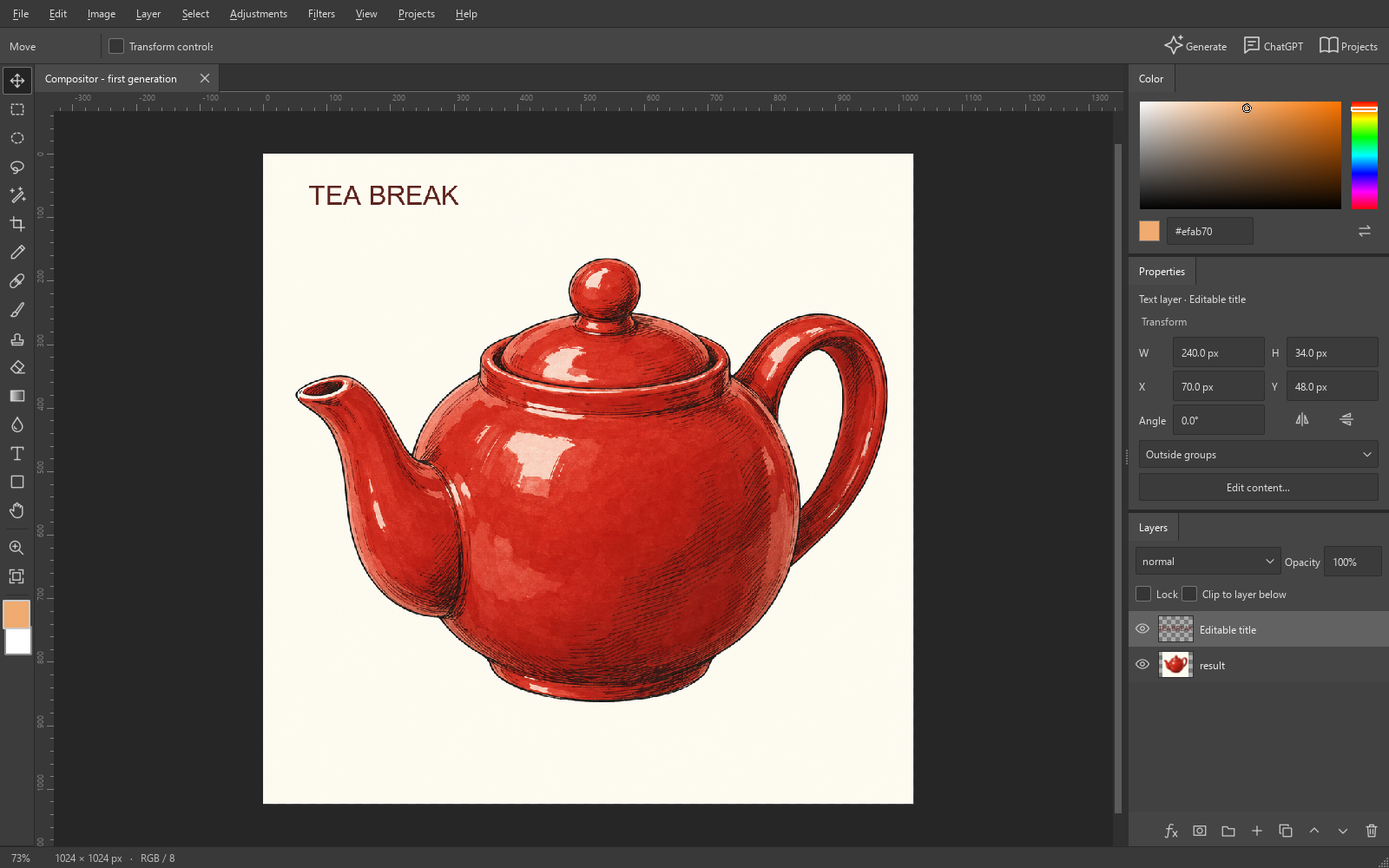
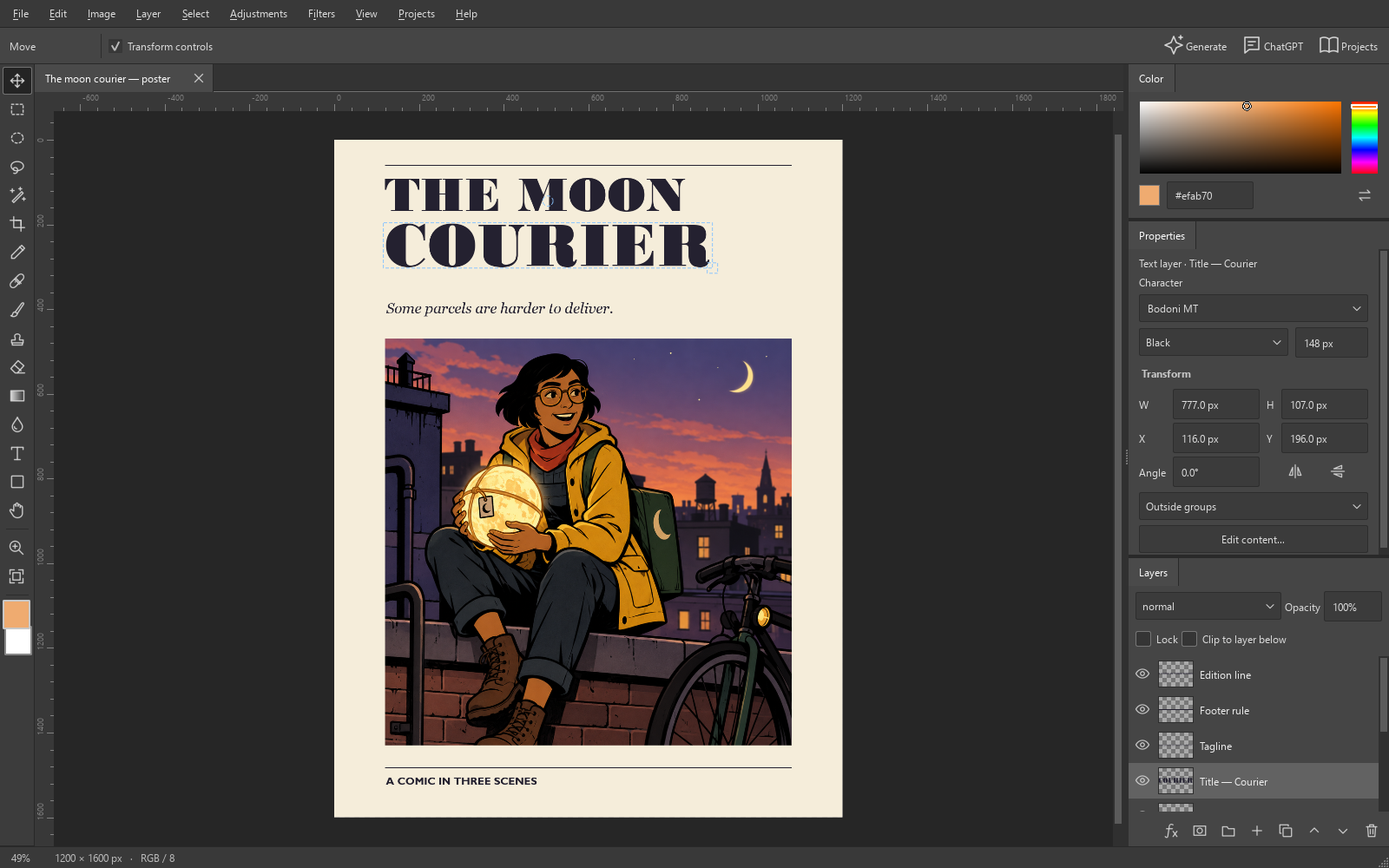
Expose type styling in Properties and open saved variants independently

diff --git a/windows/compositor/text_ui.py b/windows/compositor/text_ui.py
@@ -1,11 +1,110 @@
 """Typography editing with installed faces and the document's actual text renderer."""
-from PySide6.QtCore import Qt,QTimer
+from PySide6.QtCore import Qt,QTimer,QEvent
 from PySide6.QtGui import QColor,QPainter,QPixmap,QImage
 from PySide6.QtWidgets import (QDialog,QWidget,QVBoxLayout,QHBoxLayout,QGridLayout,QLabel,QPlainTextEdit,QSpinBox,
     QPushButton,QDialogButtonBox,QColorDialog)
 from .chrome import EditorComboBox as QComboBox
 from . import fonts,pixels
 from .document import Layer
+
+
+class TextProperties(QWidget):
+    """Immediate type controls; unfinished input stays with its original layer."""
+    def __init__(self,editor):
+        super().__init__(); self.editor=editor; self.ws=editor.ws; self.target=None; self.syncing=False; self.dirty=set(); self.baselines={}; self.displayed={}
+        layout=QVBoxLayout(self); layout.setContentsMargins(0,0,0,0); layout.setSpacing(6)
+        self.heading=QLabel('Character'); layout.addWidget(self.heading)
+        self.family=QComboBox(); self.family.setEditable(True); self.family.addItems(fonts.families()); self.family.setInsertPolicy(QComboBox.InsertPolicy.NoInsert)
+        self.family.setAccessibleName('Font family'); self.family.setToolTip('Font family'); self.family.completer().setCaseSensitivity(Qt.CaseSensitivity.CaseInsensitive); layout.addWidget(self.family)
+        row=QHBoxLayout(); row.setSpacing(8)
+        self.face=QComboBox(); self.face.setAccessibleName('Font style'); self.face.setToolTip('Font style'); row.addWidget(self.face,1)
+        self.size=QSpinBox(); self.size.setRange(1,2048); self.size.setSuffix(' px'); self.size.setKeyboardTracking(False); self.size.setButtonSymbols(QSpinBox.ButtonSymbols.NoButtons); self.size.setFixedWidth(84)
+        self.size.setAccessibleName('Font size'); self.size.setToolTip('Font size'); row.addWidget(self.size); layout.addLayout(row)
+        self.message=QLabel(); self.message.setWordWrap(True); self.message.hide(); layout.addWidget(self.message)
+        self.family.lineEdit().textEdited.connect(lambda:self.begin('family'))
+        self.family.lineEdit().editingFinished.connect(lambda:self.apply('family'))
+        self.family.activated.connect(lambda:self.choose('family'))
+        self.face.activated.connect(lambda:self.choose('face'))
+        self.size.lineEdit().textEdited.connect(lambda:self.begin('size'))
+        self.size.valueChanged.connect(lambda:self.begin('size'))
+        self.size.editingFinished.connect(lambda:self.apply('size'))
+        for widget in (self.family,self.family.lineEdit(),self.face,self.size,self.size.lineEdit()): widget.installEventFilter(self)
+
+    def eventFilter(self,watched,event):
+        if event.type()==QEvent.Type.KeyPress and event.key()==Qt.Key.Key_Escape and self.dirty:
+            self.dirty.clear(); self.baselines.clear(); self.message.hide(); self.refresh(); return True
+        return super().eventFilter(watched,event)
+
+    def field_value(self,params,field):
+        if field=='size': return params.get('size',48)
+        return tuple(params.get(key) for key in ('fontFamily','fontStyle','font','fontIndex'))
+
+    def begin(self,field):
+        if self.syncing or not self.target: return
+        if field not in self.dirty: self.baselines[field]=self.field_value(self.displayed,field)
+        self.dirty.add(field)
+
+    def choose(self,field):
+        self.begin(field); self.apply(field)
+
+    def feedback(self,text):
+        self.message.setText(text); self.message.show()
+
+    def refresh(self):
+        selected=None
+        if self.ws.active:
+            document=self.ws.document()
+            if document.active and document.layer().kind=='text': selected=(document.id,document.active)
+        if not self.dirty: self.target=selected
+        self.setVisible(self.target is not None)
+        if not self.target: return
+        try: layer=self.ws.document(self.target[0]).layer(self.target[1])
+        except ValueError:
+            self.feedback('This text layer is no longer open. Esc discards the unfinished change.'); return
+        if layer.kind!='text':
+            self.feedback('This layer no longer contains editable text. Esc discards the unfinished change.'); return
+        self.syncing=True
+        try:
+            params=layer.params; face=fonts.identify(params)
+            self.heading.setText('Character' if self.target==selected else 'Character · '+layer.name)
+            if 'family' not in self.dirty:
+                name=params.get('fontFamily') or (face['family'] if face else 'Arial')
+                if self.family.currentText()!=name: self.family.setCurrentText(name)
+                if 'face' not in self.dirty:
+                    choices=fonts.styles(name); current=params.get('fontStyle') or (face['style'] if face else 'Regular')
+                    if [self.face.itemText(i) for i in range(self.face.count())]!=choices: self.face.clear(); self.face.addItems(choices)
+                    if self.face.currentText()!=current: self.face.setCurrentText(current)
+            if 'size' not in self.dirty and self.size.value()!=round(params.get('size',48)): self.size.setValue(round(params.get('size',48)))
+            self.displayed=dict(params)
+            for field in (self.family,self.face,self.size): field.setEnabled(not layer.locked)
+            if not self.dirty: self.message.hide()
+            elif self.target!=selected: self.feedback('Finish editing '+layer.name+'. Enter applies; Esc cancels.')
+        finally: self.syncing=False
+
+    def apply(self,field):
+        if self.syncing or field not in self.dirty or not self.target: return
+        try:
+            document=self.ws.document(self.target[0]); layer=document.layer(self.target[1]); params=dict(layer.params)
+            if layer.kind!='text': raise ValueError('This layer no longer contains editable text. Esc discards the unfinished change.')
+            if layer.locked: raise ValueError('Unlock this text layer to change its type.')
+            current=self.field_value(params,field)
+            if current!=self.baselines[field]:
+                self.baselines[field]=current
+                raise ValueError('This setting changed elsewhere. Press Enter again to apply your choice, or Esc to cancel.')
+            if field=='size': params['size']=self.size.value()
+            else:
+                family=self.family.currentText().strip() if field=='family' else params.get('fontFamily',self.family.currentText())
+                style=params.get('fontStyle','Regular') if field=='family' else self.face.currentText()
+                face=fonts.resolve(family,style)
+                if face is None: raise ValueError('Choose an installed font from the list.')
+                params.update(fontFamily=face['family'],fontStyle=face['style'],font=face['path'],fontIndex=face['index'])
+            self.dirty.remove(field)
+            try:
+                if params!=layer.params: self.ws.dispatch('edit',{'documentId':document.id,'expectedRevision':document.revision,'operation':'update_layer','args':{'layerId':layer.id,'params':params}})
+            except Exception:
+                self.dirty.add(field); raise
+            self.refresh()
+        except Exception as error: self.feedback(str(error))
 
 
 class TextPreview(QWidget):

diff --git a/windows/compositor/ui.py b/windows/compositor/ui.py
@@ -439,6 +439,8 @@ class Editor(QMainWindow):
         self.color_panel=ColorPanel(self); section('Color',self.color_panel).setMinimumHeight(150); self.color_panel.sync()
         properties=QWidget(); prop=QVBoxLayout(properties); prop.setContentsMargins(12,8,12,8); prop.setSpacing(6)
         self.layer_caption=QLabel('No layer selected'); self.layer_caption.setWordWrap(True); prop.addWidget(self.layer_caption)
+        from .text_ui import TextProperties
+        self.text_properties=TextProperties(self); prop.addWidget(self.text_properties)
         label=QLabel('Transform'); label.setObjectName('sectionLabel'); prop.addWidget(label)
         fields=QGridLayout(); fields.setHorizontalSpacing(8); fields.setVerticalSpacing(4); self.transform_fields={}
         for key,label,r,c in [('sx','W',0,0),('sy','H',0,2),('x','X',1,0),('y','Y',1,2),('angle','Angle',2,0)]:
@@ -446,7 +448,9 @@ class Editor(QMainWindow):
             fields.addWidget(QLabel(label),r,c); fields.addWidget(spin,r,c+1)
         flips=QHBoxLayout(); flips.setSpacing(0); flips.addWidget(icon_button('flip_h','Flip horizontally',lambda:self.flip('sx'))); flips.addWidget(icon_button('flip_v','Flip vertically',lambda:self.flip('sy'))); fields.addLayout(flips,2,2,1,2); prop.addLayout(fields)
         self.parent_group=QComboBox(); self.parent_group.setAccessibleName('Parent group'); self.parent_group.currentIndexChanged.connect(self.change_group); prop.addWidget(self.parent_group)
-        edit_content=QPushButton('Edit content…'); edit_content.clicked.connect(self.edit_layer_content); prop.addWidget(edit_content); prop.addStretch(); section('Properties',properties).setMinimumHeight(280)
+        edit_content=QPushButton('Edit content…'); edit_content.clicked.connect(self.edit_layer_content); prop.addWidget(edit_content); prop.addStretch()
+        properties_scroll=QScrollArea(); properties_scroll.setWidgetResizable(True); properties_scroll.setFrameShape(QScrollArea.Shape.NoFrame); properties_scroll.setWidget(properties)
+        section('Properties',properties_scroll).setMinimumHeight(260)
         panel=QWidget(); layout=QVBoxLayout(panel); layout.setContentsMargins(0,6,0,0); layout.setSpacing(4)
         row=QHBoxLayout(); row.setContentsMargins(8,0,8,0); self.blend=QComboBox(); self.blend.addItems(pixels.BLENDS); self.blend.setAccessibleName('Layer blend mode'); self.blend.currentTextChanged.connect(lambda v:self.property_changed('blend',v)); row.addWidget(self.blend,1)
         row.addWidget(QLabel('Opacity')); self.opacity=QSpinBox(); self.opacity.setRange(0,100); self.opacity.setSuffix('%'); self.opacity.setFixedWidth(67); self.opacity.setAccessibleName('Layer opacity'); self.opacity.valueChanged.connect(lambda v:self.property_changed('opacity',v/100)); row.addWidget(self.opacity); layout.addLayout(row)
@@ -456,7 +460,7 @@ class Editor(QMainWindow):
         buttons=QHBoxLayout(); buttons.setContentsMargins(4,2,4,2); buttons.setSpacing(1); buttons.addStretch()
         for name,label,fn in [('effects','Layer effects',self.effects_dialog),('mask','Add layer mask',lambda:self.edit('mask',{'mode':'white'})),('group','New group',lambda:self.edit('add_layer',{'kind':'group','name':'Group'})),('plus','New layer',lambda:self.edit('add_layer')),('copy','Duplicate layer',lambda:self.edit('duplicate_layer')),('up','Raise layer',lambda:self.reorder(1)),('down','Lower layer',lambda:self.reorder(-1)),('delete','Delete layer',lambda:self.edit('delete_layer'))]: buttons.addWidget(icon_button(name,label,fn))
         layout.addLayout(buttons); section('Layers',panel).setMinimumHeight(200)
-        stack.setSizes([210,280,370]); self.inspector_stack=stack
+        stack.setSizes([170,370,320]); self.inspector_stack=stack
         self.layer_dock=QDockWidget('Inspector',self); self.layer_dock.setWidget(inspector); self.layer_dock.setMinimumWidth(300); self.layer_dock.setMaximumWidth(340); self.layer_dock.setFeatures(QDockWidget.DockWidgetFeature.NoDockWidgetFeatures); self.layer_dock.setTitleBarWidget(QWidget()); self.addDockWidget(Qt.DockWidgetArea.RightDockWidgetArea,self.layer_dock)
 
     def build_generation(self):
@@ -554,6 +558,7 @@ class Editor(QMainWindow):
                     for group in d.layers:
                         if group.kind=='group' and group.id!=l.id: self.parent_group.addItem(group.name,group.id)
                     self.parent_group.setCurrentIndex(max(0,self.parent_group.findData(l.parent)))
+            self.text_properties.refresh()
             selected=self.jobs.currentItem().data(Qt.ItemDataRole.UserRole) if self.jobs.currentItem() else None; self.jobs.clear()
             for job in sorted(self.ws.generation.jobs.values(),key=lambda j:j['created'],reverse=True):
                 if job.get('documentId')!=self.ws.active: continue

diff --git a/windows/compositor/workspace.py b/windows/compositor/workspace.py
@@ -1,6 +1,6 @@
 """The single owner of open documents for the native UI and external operators."""
 from pathlib import Path
-import base64, io, json, time
+import base64, io, json, os, time, uuid
 from PySide6.QtCore import QObject, Signal, QTimer
 from PIL import Image
 from .document import Document
@@ -81,8 +81,16 @@ class Workspace(QObject):
             if Path(a['path']).suffix.lower()=='.compbook':
                 result=self.projects.open_bundle(a['path'],a.get('asCopy',False)); self.notify(); return result
             d=Document.load(a['path'])
-            if d.id in self.documents: self.active=d.id
-            else: self.documents[d.id]=d; self.active=d.id
+            same_file=next((existing for existing in self.documents.values() if existing.path and os.path.normcase(str(Path(existing.path).resolve()))==os.path.normcase(str(Path(a['path']).resolve()))),None)
+            if same_file and not a.get('asCopy'):
+                d=same_file
+            else:
+                # Save-as variants may carry the same embedded identity. Their
+                # files are independent work and must not select a different tab.
+                if d.id in self.documents or a.get('asCopy'): d.id=str(uuid.uuid4())
+                if a.get('asCopy'): d.path=None; d.saved_revision=-1
+                self.documents[d.id]=d
+            self.active=d.id
             self.notify(); return {**d.info(),'conversionReport':getattr(d,'conversion_report',[])}
         if action=='activate':
             self.active=self.document(a['documentId']).id
@@ -137,7 +145,6 @@ class Workspace(QObject):
             bg=Image.new('RGBA',im.size,'white'); im=Image.alpha_composite(bg,im).convert('RGB'); data=io.BytesIO(); im.save(data,'JPEG',quality=90,subsampling=0)
             return {'documentId':d.id,'revision':d.revision,'width':im.width,'height':im.height,'mimeType':'image/jpeg','data':base64.b64encode(data.getvalue()).decode()}
         if action=='prepare_generation':
-            import uuid
             folder=self.settings.root/'prepared'/str(uuid.uuid4()); folder.mkdir(parents=True)
             im=d.render(); box=a.get('box'); kind=a.get('kind','edit')
             if kind=='patch':

diff --git a/windows/compositor/mcp_server.py b/windows/compositor/mcp_server.py
@@ -31,7 +31,7 @@ def compositor_new_document(width:int=1536,height:int=1024,title:str='Untitled',
 
 @server.tool()
 def compositor_open_document(path:str,asCopy:bool=False) -> dict:
-    """Open a .compwin, .compbook, OpenRaster, PSD, upstream Compositor package or ordinary image. An unchanged .compbook returns to its existing project; asCopy explicitly imports an independent project. Returns conversion notes when present."""
+    """Open a .compwin, .compbook, OpenRaster, PSD, upstream Compositor package or ordinary image. An already-open document file or unchanged .compbook returns to its existing owner. asCopy explicitly opens an independent unsaved copy. Different files remain independent even when their embedded document IDs match. Returns conversion notes when present."""
     return call('open',locals())
 
 @server.tool()

diff --git a/module-manifest.md b/module-manifest.md
@@ -10,7 +10,7 @@ The public app runs independently of the Axiomatic workspace. General editing, g
 | Rendering | `windows/compositor/pixels.py` | sRGB RGBA compositing, 20 blend modes, shapes/text/gradients, layer effects, filters and adjustments. Mirrors upstream transform and blend intent with Windows libraries. |
 | Shared workspace | `windows/compositor/workspace.py` | Qt owner thread; both native UI and HTTP/MCP enter the same dispatch. Open documents, revisions, recovery, generation application, inspection and optional connector. |
 | Native editor | `windows/compositor/ui.py`, `windows/compositor/chrome.py` | Qt canvas with pixel rulers, original vector tool icons, direct color selection, stacked Color/Properties/Layers inspector and optional generation, ChatGPT and project panels. Window geometry and named dock/toolbar state persist in per-user `window.json`. Human edits use the canonical workspace commands. |
-| Typography | `windows/compositor/fonts.py`, `windows/compositor/text_ui.py` | Installed Windows font families and faces, searchable selection, actual rendered text preview and editable family-based text. Modal drafts stay pinned to their document and layer; concurrent edits retain the draft for an explicit retry. MCP discovers the same fonts. |
+| Typography | `windows/compositor/fonts.py`, `windows/compositor/text_ui.py` | Installed Windows font families and faces, immediate family/style/size controls in Properties, searchable selection and an expanded text dialog with actual rendered preview. Unfinished property input stays pinned to its original document/layer; field conflicts preserve the draft for explicit retry, while unrelated edits are merged. MCP discovers the same fonts. |
 | Gesture previews | `windows/compositor/gesture.py` | Immutable brush/eraser snapshots rendered through the same pixel operations as committed edits. Pointwise documents render bounded patches; effects and adjustments use the full renderer. Preview pixels replace a temporary canvas bitmap, preserving transparency and fractional-zoom edges. Escape cancels; release commits one undo step; external document changes cancel the pending gesture. |
 | Public production projects | `windows/compositor/projects.py`, `windows/compositor/production_ui.py` | Standalone artwork/comic/book projects, lazily loaded canonical page documents, authored prose, project direction, labeled references, portable `.compbook` files, HTML/PDF reading exports and shared human/MCP presentation. Page drafts persist separately until saved. |
 | Reading exports | `windows/compositor/reading.py` | Self-contained responsive HTML and PDF pages at the artwork's aspect ratio. Additional prose is typeset below the image at readable size; composed comic pages acquire no report headings or A4 margins. |
@@ -28,6 +28,8 @@ The public app runs independently of the Axiomatic workspace. General editing, g
 
 `.compwin` is a ZIP with versioned JSON, lossless source layers/masks, selection and a merged preview. Atomic replacement occurs only after full serialization. `.ora` adds standard OpenRaster layers for compatible documents and retains the native manifest for exact Compositor reopening; unsupported portable semantics produce an error. Imported raster originals remain untouched. Export refuses their original paths.
 
+Opening a native document already owned under the same file path activates that working document and returns its actual state. A different file with a colliding embedded ID receives an independent in-memory identity. `asCopy` explicitly creates an unsaved independent document. This prevents Save-as variants from silently selecting an original tab while reporting the unopened variant's contents.
+
 Undo/redo carries a stable in-memory state identity, while revision numbers always advance. Returning to the last saved state clears the dirty marker without making an old generation request or concurrent edit current again. The saved checkpoint survives undo branches and save operations; recovery and close checks use the same dirty property.
 
 Recovery saves open documents and a session index under the user's app data. It is separate from an explicit document save. Generation folders retain requests, captured source/reference images, original provider bytes, normalized candidates and application provenance. The native subscription runtime stores its own authentication and conversations under the app's isolated `chat/codex` directory. Compositor never borrows the developer's Codex authentication.
@@ -40,7 +42,7 @@ The installed GUI and packaged MCP have been exercised together: document creati
 
 The installed GPT-6-Sol collaborator also completed an actual caption-fit request: it inspected the page, narrowed only the bottom cream box from 936 to 646 pixels and inspected the result. The foreground window stayed unchanged during that turn. After installing the export correction, the same comic was saved, exported and reopened through the installed owner. The resulting PDF has three square pages; its final page and the browser-rendered HTML were visually inspected. Original open work survived the update. This establishes this creative journey, not general Photoshop parity or perfect character consistency across generators.
 
-In a subsequent actual design task, in-app GPT-6-Sol built a separate 1200-by-1600 poster from the retained raster, with editable Bodoni MT, Georgia and Gill Sans MT type. It inspected placement, saved the layered document and exported a PNG without changing foreground focus during the 181-second turn. A rejected two-pixel rule exposed incorrectly inset Pillow shape bounds; shapes now use their full pixel bounds, and the installed poster uses one- and two-pixel rules. The real comic then exercised remembered Save, normal Open returning to the same project, and explicit Open a copy for an independent serif-lettered edition. Text Properties still lacks immediate font/size controls; that is the next observed human editing gap.
+In a subsequent actual design task, in-app GPT-6-Sol built a separate 1200-by-1600 poster from the retained raster, with editable Bodoni MT, Georgia and Gill Sans MT type. It inspected placement, saved the layered document and exported a PNG without changing foreground focus during the 181-second turn. A rejected two-pixel rule exposed incorrectly inset Pillow shape bounds; shapes now use their full pixel bounds, and the installed poster uses one- and two-pixel rules. The real comic then exercised remembered Save, normal Open returning to the same project, and explicit Open a copy for an independent serif-lettered edition. Text Properties now exposes family, style and size. Those controls were used in the source GUI to create a Bodoni variant; the installed app subsequently opened, saved and exported it alongside the original, with the live Properties panel visually inspected. The duplicate embedded document identity discovered during that journey now receives an independent owner for a different file.
 
 Editor chrome is verified separately from document operations. The GUI tests exercise color selection, visibility eye controls, pixel-dimension transforms and keeping Layers visible while switching secondary panels. Rendered checks cover 1600×1000 and 1280×800 windows. The inspector retains a bounded width when a secondary panel closes. Visual review remains necessary; these checks do not establish professional finish by themselves.
 
@@ -57,6 +59,8 @@ Live OpenAI generation returned a 1024×1024 image. A separate crop edit sent a 
 Generate, project pages and character sheets share an explicit API/subscription route. Subscription requests retain the composed prompt and immutable source/reference inputs before the conversation starts. Native image results bind to that prepared request even if another document becomes active. External clients keep the same 20-tool stdio surface; the in-app connection approves only the owned Compositor server automatically. Background launches use `--background`, and chat questions live in the panel rather than modal windows.
 
 Chat requests queue through initial setup and account discovery, retaining the intended document and generation inputs. A sent-message event owns transcript display and clearing the matching input draft; newer typed drafts survive. Stop cancels queued work. First Send installs missing support automatically. Working-folder changes validate the destination and reconnect an idle session; active requests must be stopped first. Replies render Markdown, and a local timer displays elapsed time and the age of the last runtime message. Lifecycle tests cover setup, draft retention, cancellation, document identity, folder changes, Markdown and restored layout. Commit `0cf485b` passed clean Windows CI run `35820680597`.
+
+One observed interaction inconsistency remains: selecting a layer through the edit/MCP operation records undo and dirty state, while clicking a layer in the UI does not. Align these paths during the next selection and regional-refinement workflow.
 
 Remaining upstream feature gaps include automatic subject selection/background removal, perspective distortion, independently transformed linked/unlinked masks, GPU rendering, live clone/heal/blur feedback, richer inline typography, and several upstream import/filter details. Separable blending uses bounded strips to limit temporary memory. PSD preserves raster channels, hidden layers, opacity, groups and pixel masks; unsupported effects and modes produce conversion notes. PSD and upstream imports do not yet promise pixel-exact compatibility.
 

diff --git a/windows/README.md b/windows/README.md
@@ -4,13 +4,13 @@ A layered image editor for Windows 10, with generative editing and tools an AI c
 
 This edition is in active development. It preserves Robbie Tilton's original Mac application in the repository and provides a separate Windows implementation. See [current capabilities and remaining work](../module-manifest.md) before relying on a feature for production.
 
-![Windows editor with an icon tool rail, pixel rulers and stacked Color, Properties and Layers panels](docs/editor.png)
+![Editable poster with font controls in Properties and separate artwork and text layers](docs/editor.png)
 
 The tool rail keeps familiar shortcuts: V to move, M to select, B to paint and H to pan. Hover over an icon for its name and shortcut. Space-drag pans the canvas; the mouse wheel zooms. Ctrl+0 fits the artwork and Ctrl+1 shows actual pixels.
 
 Color, Properties and Layers stay beside the canvas. Width and height in Properties are pixel dimensions; resizing a layer preserves its source pixels. Open Generate, ChatGPT or Projects from the options bar when needed, and close their panels to reclaim canvas space.
 
-The Type tool offers searchable installed font families and styles, alignment, line spacing, color and a preview of the rendered text. Double-click a text layer to edit it. Font availability follows the fonts installed on your computer.
+Select a text layer to change its font family, style and size directly in Properties. Double-click it to edit the wording, alignment, line spacing and color, with a preview of the rendered text. Font availability follows the fonts installed on your computer.
 
 ## Run from source
 
